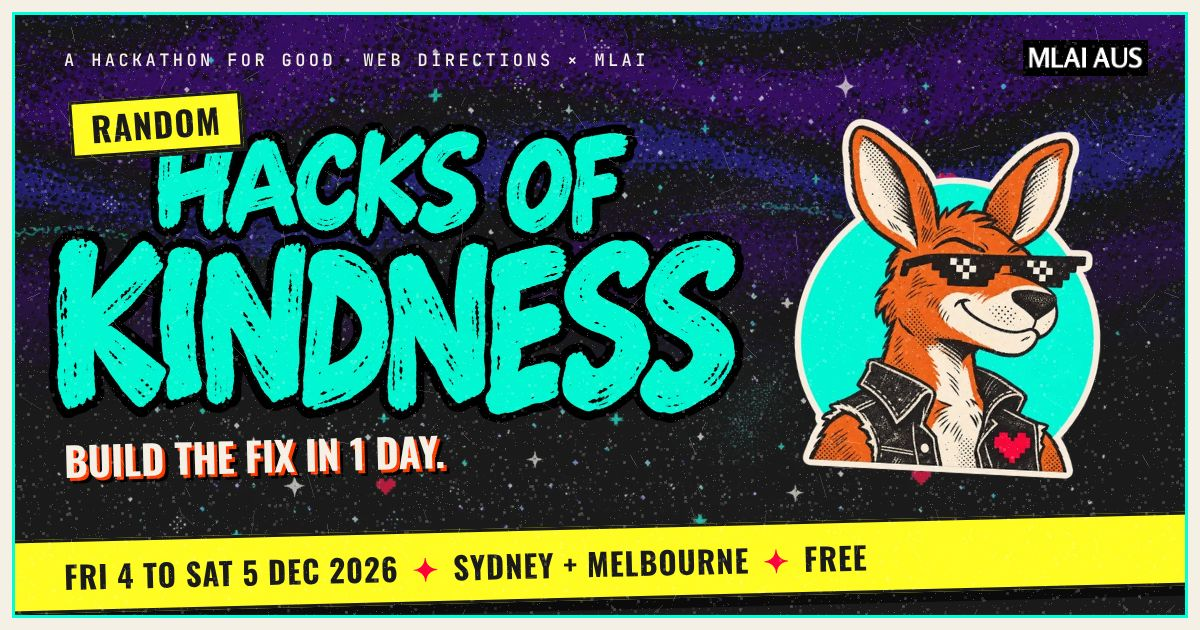
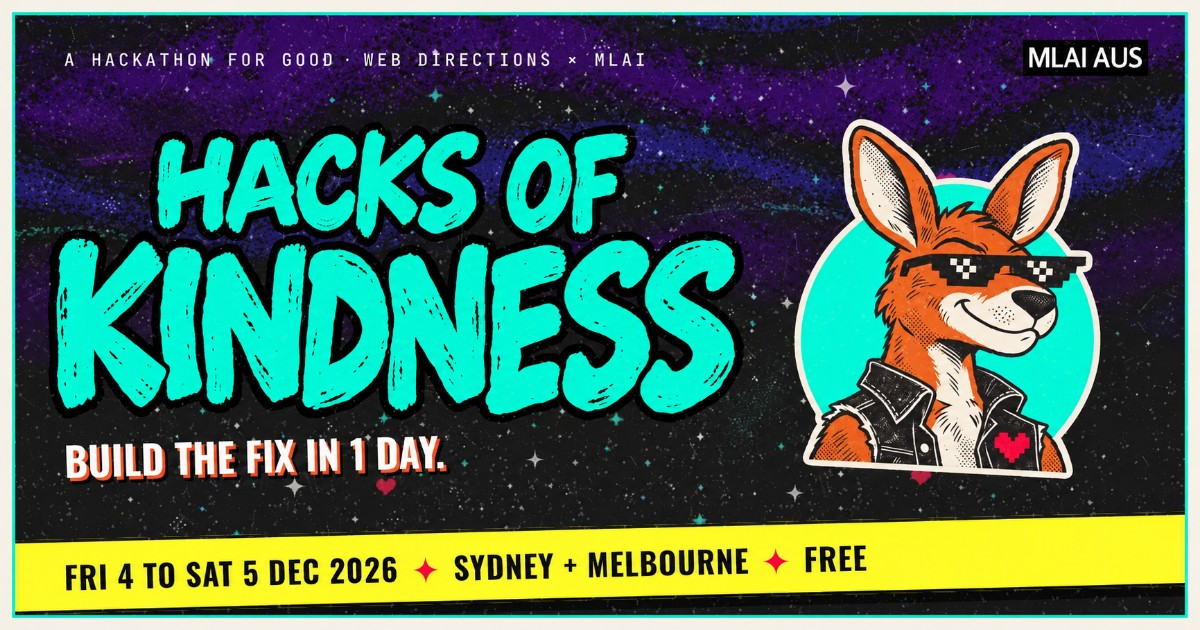
Rename event to Hacks of Kindness

diff --git a/app/data/kindness.ts b/app/data/kindness.ts
@@ -1,4 +1,4 @@
-// Random Hacks of Kindness (/kindness): every fact, link, flag and line of copy.
+// Hacks of Kindness (/kindness): every fact, link, flag and line of copy.
 //
 // Rules for editing this file:
 // - A fact the organisers have not confirmed is `null`. The element that would
@@ -23,7 +23,7 @@ export type KindnessLogo = {
 
 /** Event facts. Change these in one place; every section reads from here. */
 export const facts = {
-  name: "Random Hacks of Kindness",
+  name: "Hacks of Kindness",
   shortName: "Hacks of Kindness",
   cities: ["Sydney", "Melbourne"] as const,
   /** ISO dates with the Melbourne and Sydney summer offset. */
@@ -67,12 +67,12 @@ export const phase = {
 };
 
 export const meta = {
-  title: "Random Hacks of Kindness: build in one day for a for-purpose business",
+  title: "Hacks of Kindness: build in one day for a for-purpose business",
   description:
     "A free hackathon in Sydney and Melbourne, 4 to 5 December 2026. Use tech and AI to solve a real problem for a for-purpose business. Presented by Web Directions and MLAI.",
   image: "https://mlai.au/kindness/social-card.jpg",
   imageAlt:
-    "Random Hacks of Kindness: Roo the kangaroo in pixel sunglasses over a teal hand-lettered wordmark. Sydney and Melbourne, 4 to 5 December 2026. Free.",
+    "Hacks of Kindness: Roo the kangaroo in pixel sunglasses over a teal hand-lettered wordmark. Sydney and Melbourne, 4 to 5 December 2026. Free.",
   themeColor: "#def7fc",
 };
 
@@ -139,13 +139,11 @@ export const chrome = {
 export const hero = {
   eyebrow: "A HACKATHON FOR GOOD · WEB DIRECTIONS × MLAI",
   wordmark: {
-    /** The yellow tape label. Written in sentence case and uppercased in CSS, so the h1 reads "Random Hacks of Kindness". */
-    label: "Random",
     art: { src: "/kindness/wordmark.webp", alt: "Hacks of Kindness", width: 1400, height: 609 },
     /** Live-text fallback lines (P2 shows them if the art fails), uppercased in CSS. */
     live: ["Hacks of", "Kindness"],
     /** The accessible name of the whole wordmark. */
-    name: "Random Hacks of Kindness",
+    name: "Hacks of Kindness",
   },
   oval: {
     small: "A for-purpose business needs a hand.",

diff --git a/app/components/kindness/Hero.tsx b/app/components/kindness/Hero.tsx
@@ -110,8 +110,7 @@ export default function Hero() {
                 </span>
               </button>
 
-              <h1 id="rk-hero-title" className="rk-wordmark">
-                <span className="rk-wordmark__random">{wordmark.label}</span>{" "}
+              <h1 id="rk-hero-title" className="rk-wordmark" aria-label={wordmark.name}>
                 <span className="rk-wordmark__plate">
                   <img
                     className="rk-wordmark__art"

diff --git a/app/components/kindness/ui.tsx b/app/components/kindness/ui.tsx
@@ -1,4 +1,4 @@
-// Shared building blocks for the Random Hacks of Kindness page. The shell spec
+// Shared building blocks for the Hacks of Kindness page. The shell spec
 // defines them; every section uses them by these names. Server-rendered only:
 // no state and no effects. Styles live in app/styles/kindness/shell.css.
 import type { CSSProperties, ReactNode } from "react";
